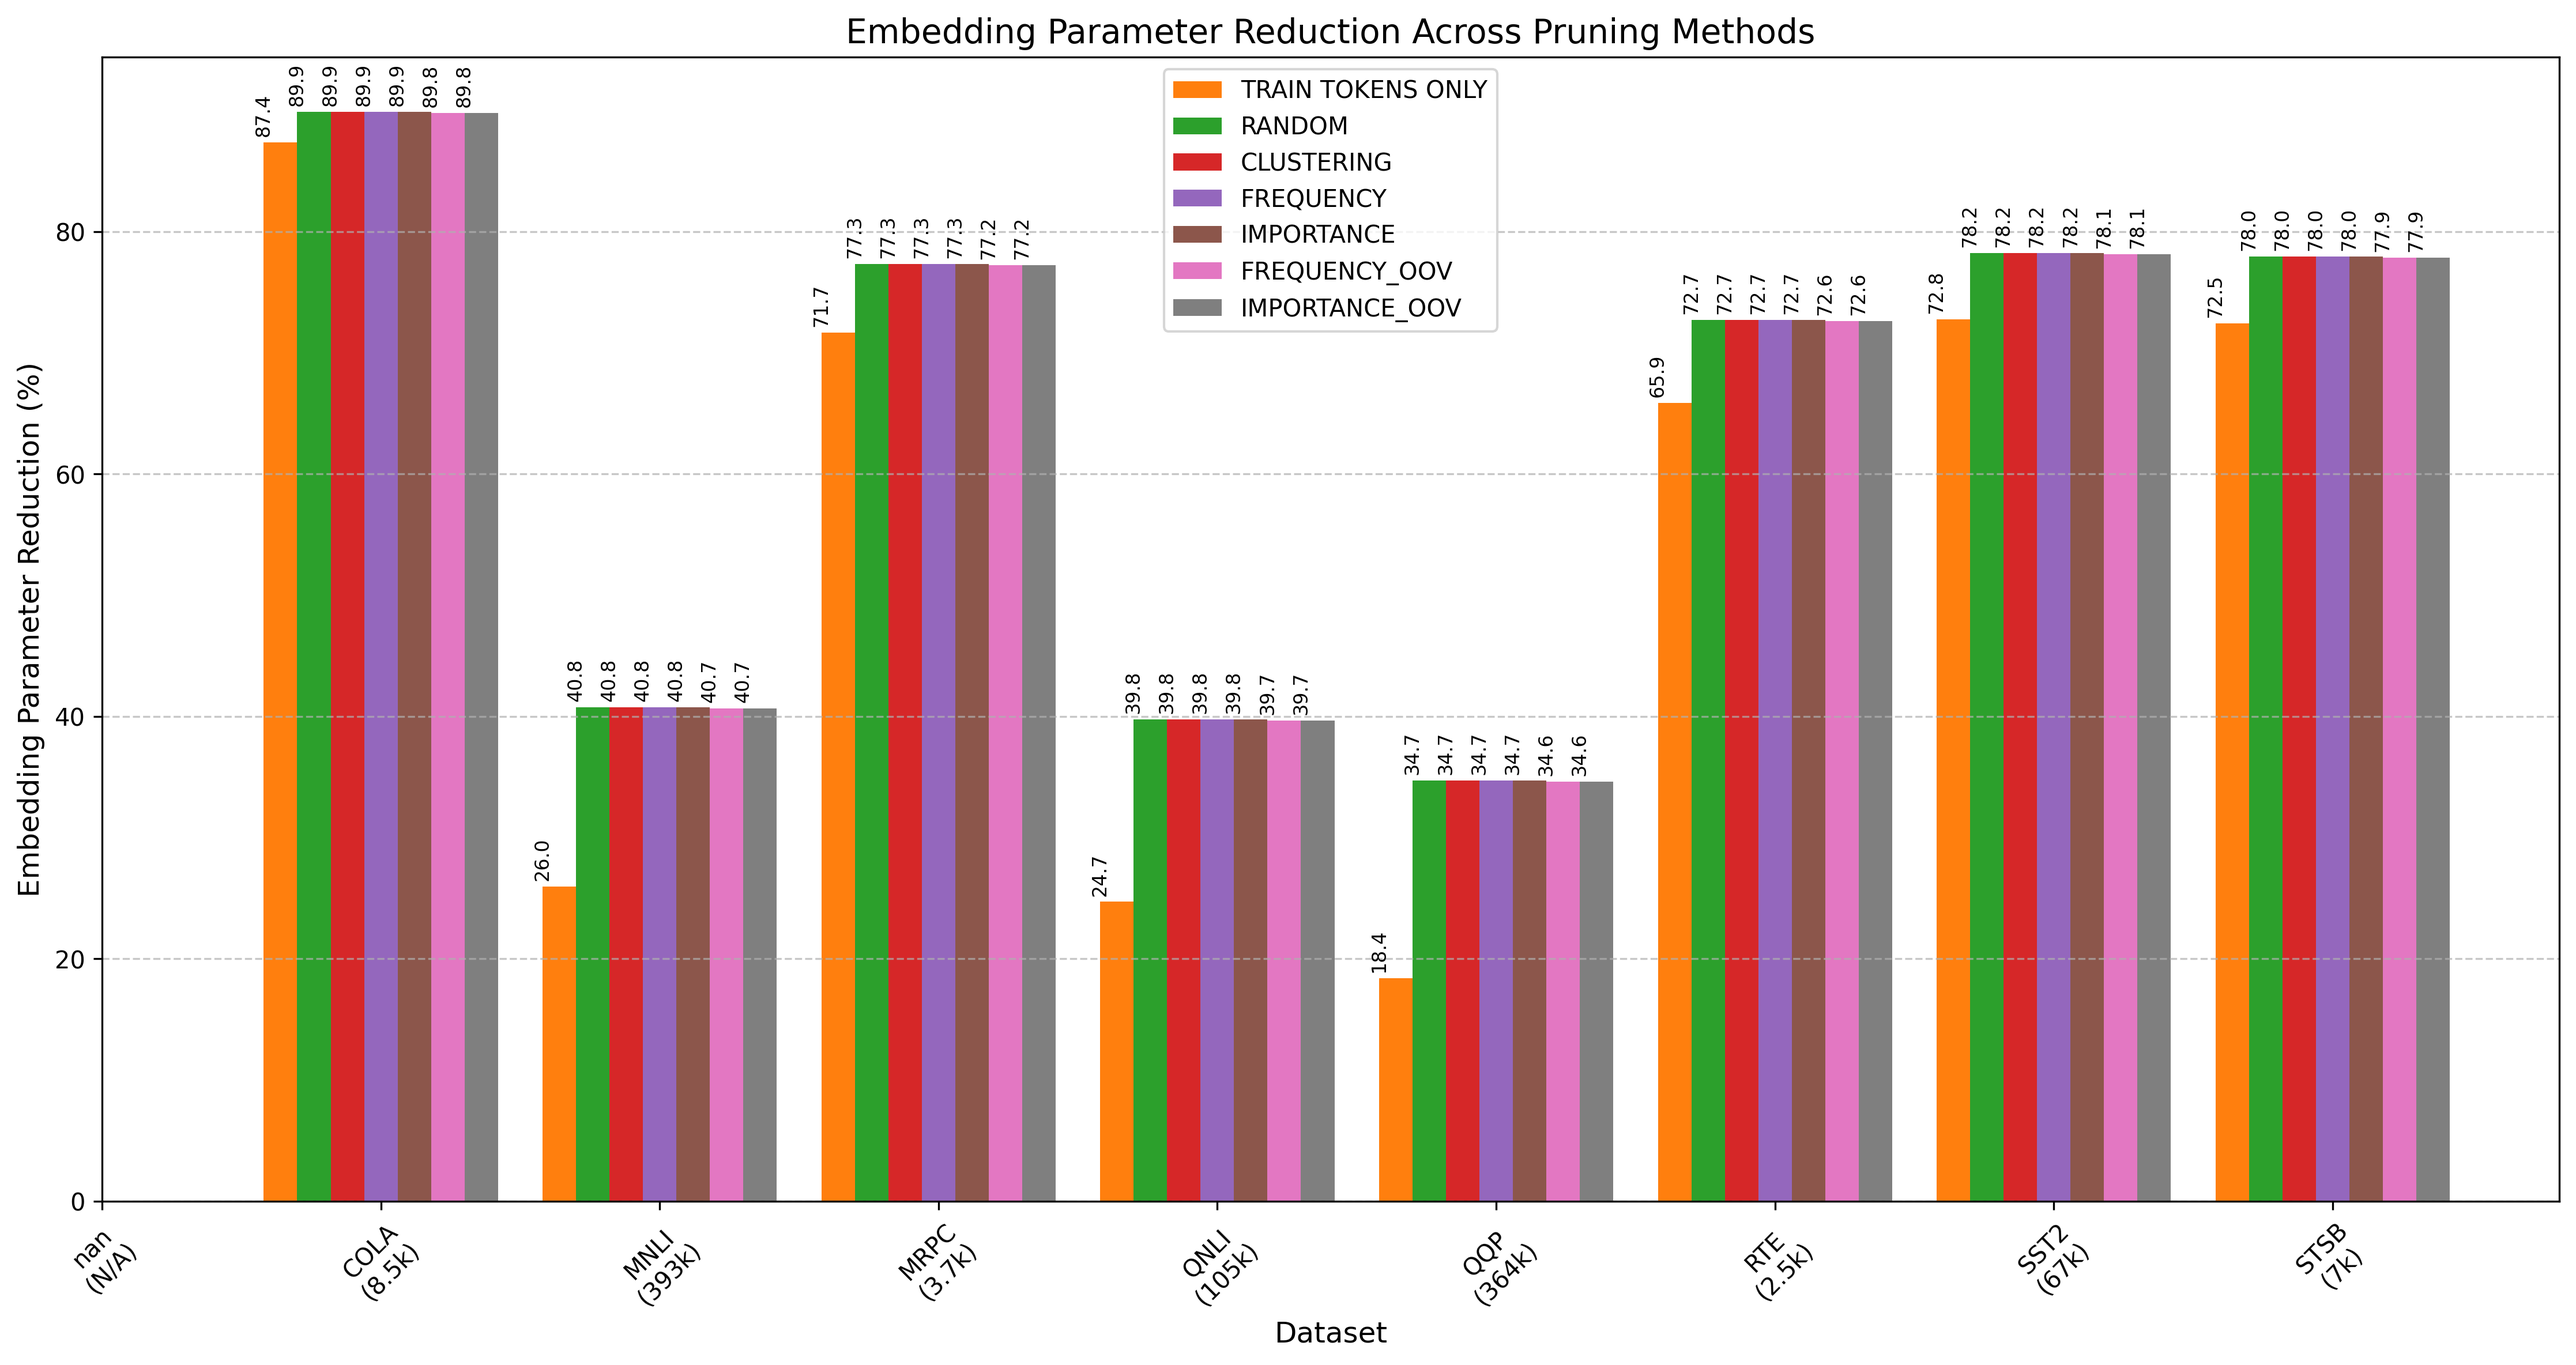
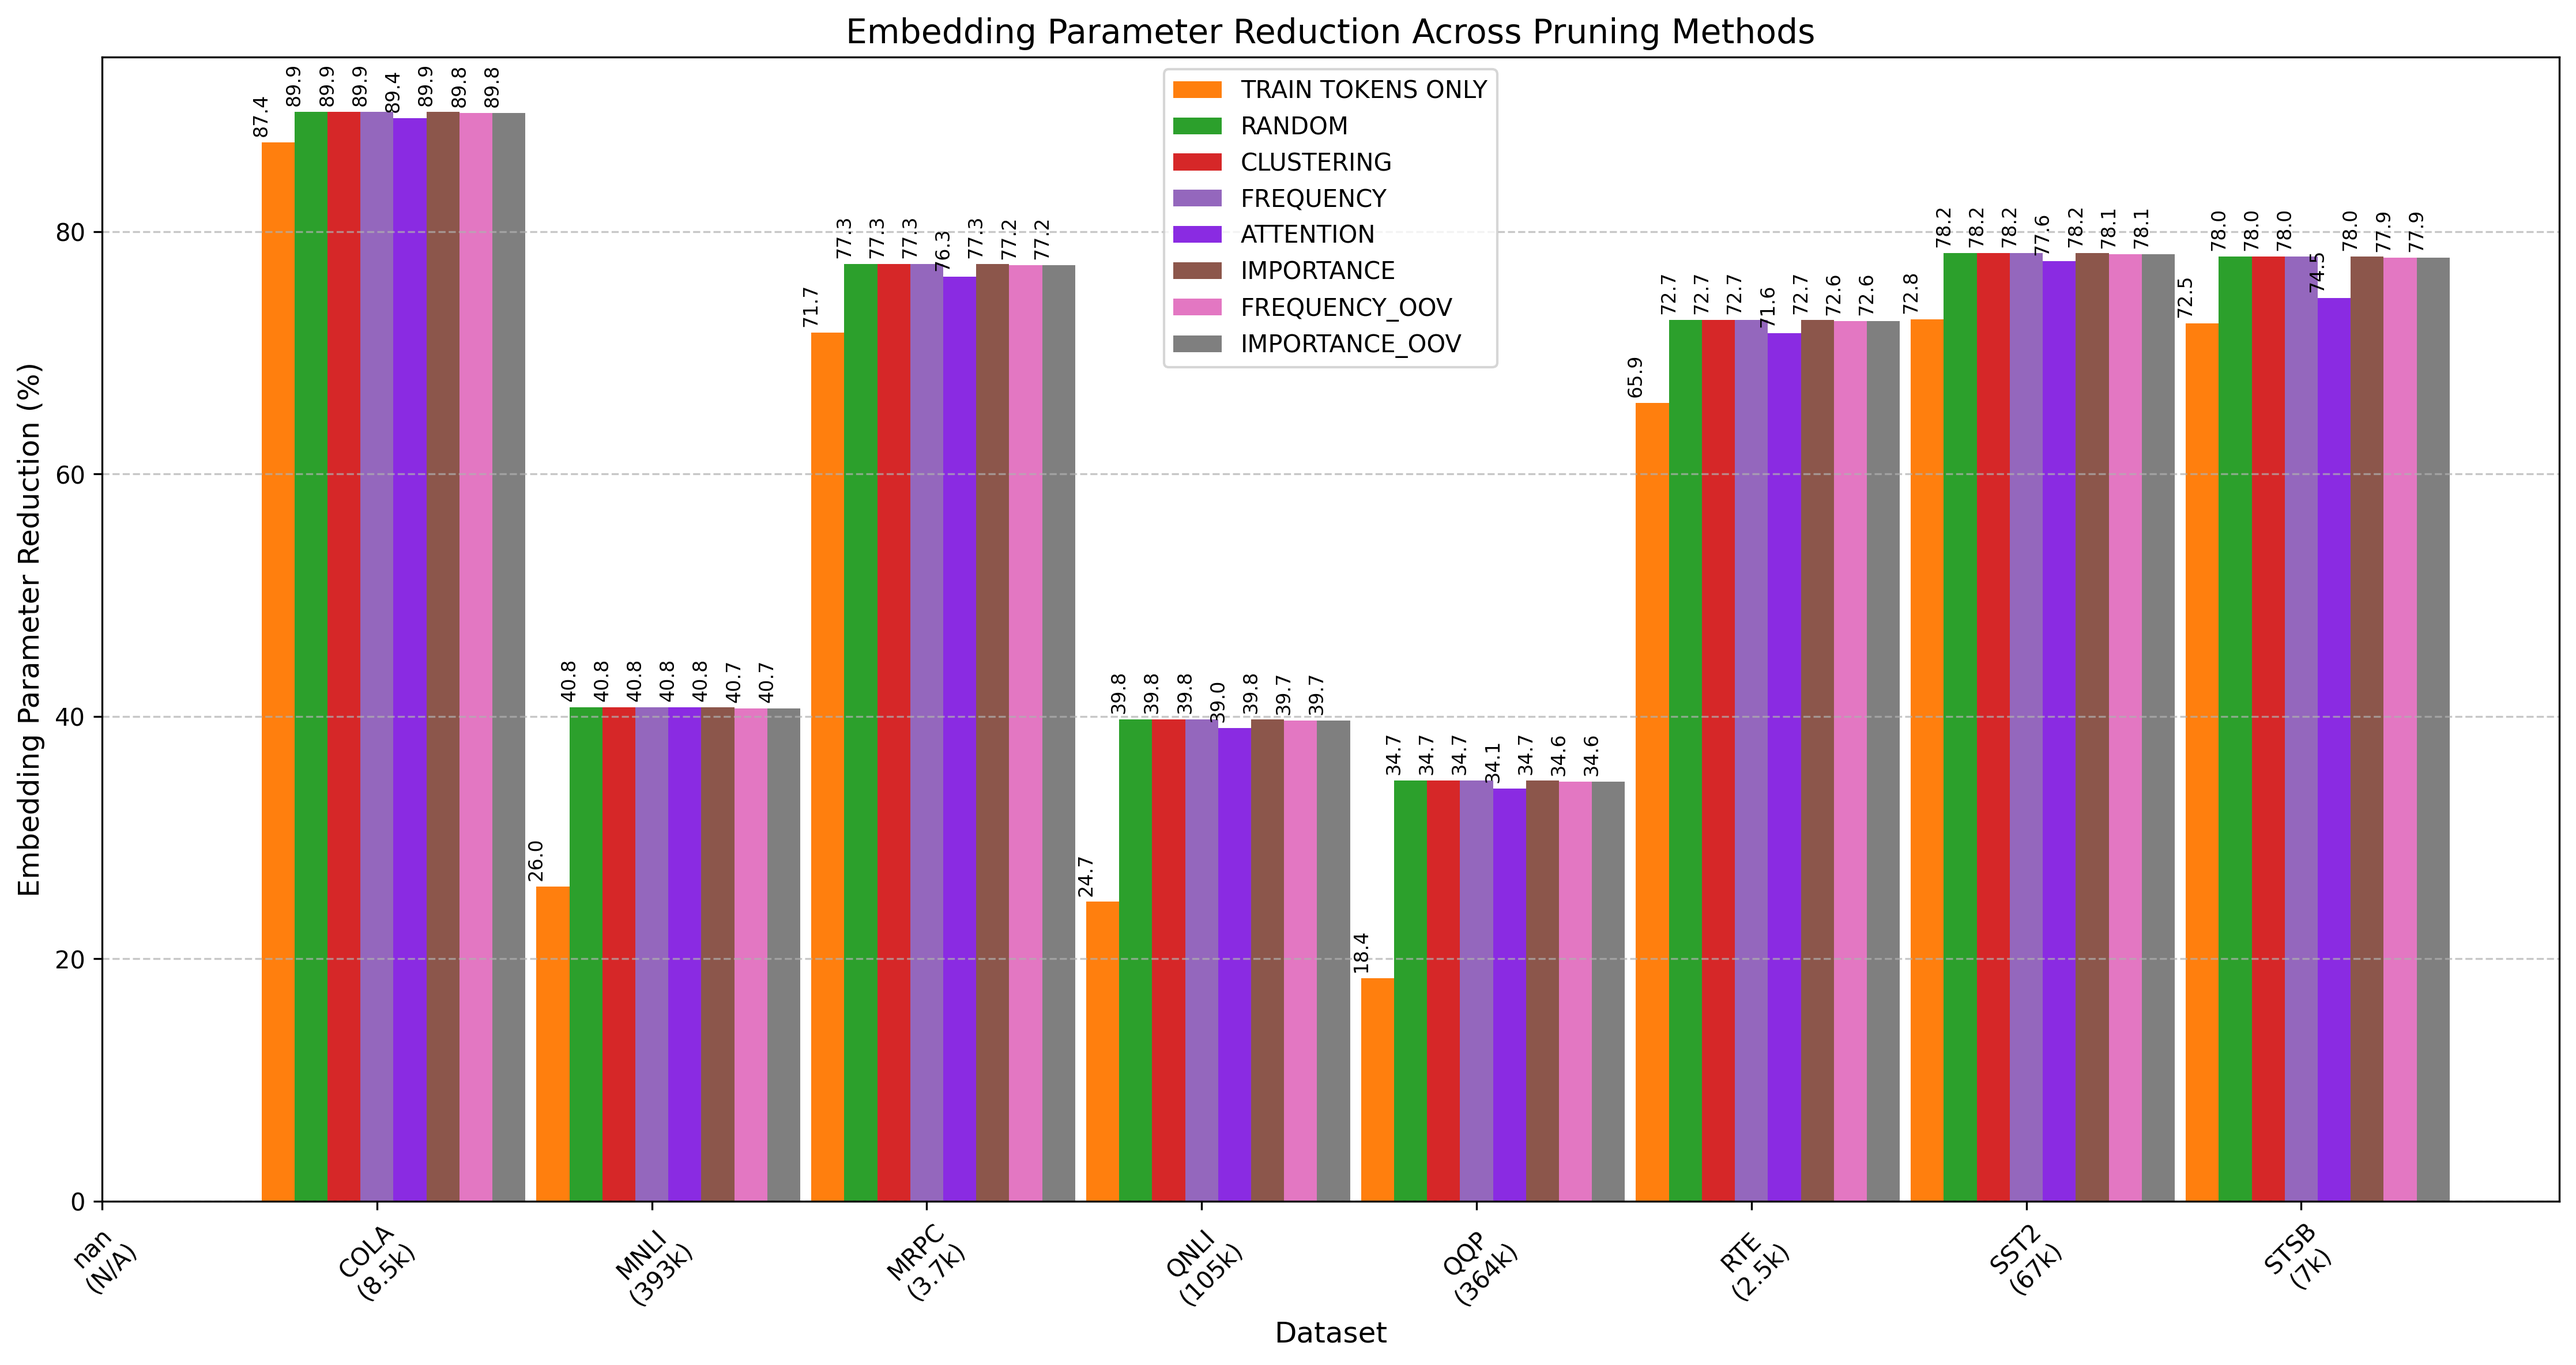
Add attention scores

Changed region(s): [[0.0933, 0.0312, 0.9333, 0.9688], [0.1244, 0.9062, 0.1556, 0.9375]]

diff --git a/visualize_results.py b/visualize_results.py
@@ -36,6 +36,7 @@ train_tokens_test = []
 random_test = []
 clustering_test = []
 frequency_test = []
+attention_test = []
 importance_test = []
 frequency_oov_test = []
 importance_oov_test = []
@@ -46,6 +47,7 @@ train_tokens_train = []
 random_train = []
 clustering_train = []
 frequency_train = []
+attention_train = []
 importance_train = []
 
 with open('results/SUMMARY.csv', 'r') as f:
@@ -73,7 +75,11 @@ with open('results/SUMMARY.csv', 'r') as f:
             else:
                 frequency_train.append(0.0)
             if len(row) > 12:
-                importance_train.append(parse_value(row[12]))
+                attention_train.append(parse_value(row[12]))
+            else:
+                attention_train.append(0.0)
+            if len(row) > 14:
+                importance_train.append(parse_value(row[14]))
             else:
                 importance_train.append(0.0)
             
@@ -90,15 +96,19 @@ with open('results/SUMMARY.csv', 'r') as f:
             else:
                 frequency_test.append(0.0)
             if len(row) > 13:
-                importance_test.append(parse_value(row[13]))
+                attention_test.append(parse_value(row[13]))
+            else:
+                attention_test.append(0.0)
+            if len(row) > 15:
+                importance_test.append(parse_value(row[15]))
             else:
                 importance_test.append(0.0)
-            if len(row) > 14:
-                frequency_oov_test.append(parse_value(row[14]))
+            if len(row) > 16:
+                frequency_oov_test.append(parse_value(row[16]))
             else:
                 frequency_oov_test.append(0.0)
-            if len(row) > 15:
-                importance_oov_test.append(parse_value(row[15]))
+            if len(row) > 17:
+                importance_oov_test.append(parse_value(row[17]))
             else:
                 importance_oov_test.append(0.0)
 
@@ -110,6 +120,7 @@ test_df = pd.DataFrame({
     'RANDOM': random_test,
     'CLUSTERING': clustering_test,
     'FREQUENCY': frequency_test,
+    'ATTENTION': attention_test,
     'IMPORTANCE': importance_test,
     'FREQUENCY_OOV': frequency_oov_test,
     'IMPORTANCE_OOV': importance_oov_test,
@@ -122,6 +133,7 @@ train_df = pd.DataFrame({
     'RANDOM': random_train,
     'CLUSTERING': clustering_train,
     'FREQUENCY': frequency_train,
+    'ATTENTION': attention_train,
     'IMPORTANCE': importance_train,
     'SIZE': [dataset_sizes.get(dataset, 'N/A') for dataset in datasets]  # Add dataset sizes
 }, index=datasets)
@@ -131,8 +143,8 @@ print("Test Results DataFrame with dataset sizes:")
 print(test_df)
 
 # Define the list of methods for consistent reference
-methods = ['NO PRUNING', 'TRAIN TOKENS ONLY', 'RANDOM', 'CLUSTERING', 'FREQUENCY', 'IMPORTANCE', 'FREQUENCY_OOV', 'IMPORTANCE_OOV']
-colors = ['#1f77b4', '#ff7f0e', '#2ca02c', '#d62728', '#9467bd', '#8c564b', '#e377c2', '#7f7f7f']
+methods = ['NO PRUNING', 'TRAIN TOKENS ONLY', 'RANDOM', 'CLUSTERING', 'FREQUENCY', 'ATTENTION', 'IMPORTANCE', 'FREQUENCY_OOV', 'IMPORTANCE_OOV']
+colors = ['#1f77b4', '#ff7f0e', '#2ca02c', '#d62728', '#9467bd', '#8a2be2', '#8c564b', '#e377c2', '#7f7f7f']
 method_colors = dict(zip(methods, colors))
 
 # Calculate and print performance drop from baseline
@@ -363,7 +375,7 @@ for col in param_reduction_df.columns:
     param_reduction_df[col] = pd.to_numeric(param_reduction_df[col], errors='coerce')
 
 # Convert column headers to MultiIndex
-method_groups = ['NO PRUNING', 'TRAIN TOKENS ONLY', 'RANDOM', 'CLUSTERING', 'FREQUENCY', 'IMPORTANCE', 'FREQUENCY_OOV', 'IMPORTANCE_OOV']
+method_groups = ['NO PRUNING', 'TRAIN TOKENS ONLY', 'RANDOM', 'CLUSTERING', 'FREQUENCY', 'ATTENTION', 'IMPORTANCE', 'FREQUENCY_OOV', 'IMPORTANCE_OOV']
 subtypes = ['Total', 'Embedding', 'Vocab']
 tuples = []
 

diff --git a/paper/main.tex b/paper/main.tex
@@ -111,7 +111,7 @@ Multiple approaches for token importance estimation were systematically evaluate
     
     \item \textbf{Clustering-Based}: This approach employs agglomerative or k-means clustering on the embedding space to group tokens with similar semantic properties. For each cluster, the token closest to the centroid is retained as a representative, while others are pruned. This preserves semantic diversity across the vocabulary while reducing redundancy.
     
-    \item \textbf{Attention-Based}: A more sophisticated approach using a finetuned model to extract attention scores across the dataset. For each token, attention patterns across all layers are aggregated to determine its contextual importance.
+    \item \textbf{Attention-Based}: This method uses attention patterns from fine-tuning to determine token importance. For each token, attention scores across all layers and heads are aggregated to capture its contextual relevance within the specific task. Tokens receiving consistently higher attention are considered more important for model decisions, providing a more nuanced importance measure that captures both frequency and semantic significance.
     
     \item \textbf{TF-IDF Based}: Tokens are ranked using Term Frequency-Inverse Document Frequency scores, which balance token occurrence frequency with discriminative power across documents.
 \end{enumerate}
@@ -218,16 +218,17 @@ Experimental results indicate that TF-IDF variants generally outperform pure fre
 ModernBERT (Full) & 0.03\% & 0.951 & 0.856 & 0.881 & 0.586 & 0.917 & 0.917 & 0.916 & 0.598 & 0.828 \\
 \midrule
 \multicolumn{11}{l}{\textit{Vocabulary Pruning}} \\
-Train Tokens Only & 6.7-22.6\% & 0.950 & 0.831 & \textbf{0.883} & 0.509 & \textbf{0.917} & \textbf{0.917} & 0.915 & 0.598 & 0.815 \\
+Train Tokens Only & 6.7-22.6\% & 0.950 & 0.831 & 0.883 & 0.509 & 0.917 & 0.917 & 0.915 & 0.598 & 0.815 \\
 \midrule
 Random Selection & 9.0-23.3\% & 0.911 & 0.798 & 0.832 & 0.470 & 0.845 & 0.902 & 0.895 & 0.522 & 0.772 \\
 Clustering-Based & 9.0-23.3\% & 0.899 & 0.714 & 0.712 & 0.000 & 0.786 & 0.875 & 0.836 & 0.510 & 0.667 \\
-Frequency-Based & 9.0-23.3\% & 0.943 & 0.812 & 0.880 & 0.467 & 0.905 & 0.916 & \textbf{0.920} & 0.542 & 0.798 \\
-TF-IDF Based & 9.0-23.3\% & 0.933 & 0.807 & 0.875 & 0.520 & 0.901 & 0.900 & 0.917 & \textbf{0.606} & \textbf{0.807} \\
+Frequency-Based & 9.0-23.3\% & 0.943 & 0.812 & 0.880 & 0.467 & \textbf{0.905} & \textbf{0.916} & \textbf{0.920} & 0.542 & 0.798 \\
+Attention-Based & 8.8-23.1\% & \textbf{0.947} & \textbf{0.864} & 0.864 & \textbf{0.589} & 0.885 & 0.912 & 0.912 & 0.550 & 0.803 \\
+TF-IDF Based & 9.0-23.3\% & 0.933 & 0.807 & \textbf{0.875} & 0.520 & 0.901 & 0.900 & 0.917 & \textbf{0.606} & \textbf{0.807} \\
 \midrule
 \multicolumn{11}{l}{\textit{Vocabulary Pruning with OOV Handling}} \\
 Freq + OOV & 9.0-23.2\% & \textbf{0.938} & 0.828 & \textbf{0.881} & 0.540 & 0.906 & 0.916 & 0.918 & 0.538 & 0.808 \\
-TF-IDF + OOV & 9.0-23.2\% & 0.923 & \textbf{0.834} & 0.878 & \textbf{0.615} & 0.903 & 0.906 & 0.919 & 0.554 & \textbf{0.817} \\
+TF-IDF + OOV & 9.0-23.2\% & 0.923 & 0.834 & 0.878 & 0.615 & 0.903 & 0.906 & 0.919 & 0.554 & \textbf{0.817} \\
 \bottomrule
 \end{tabular}
 \end{table*}
@@ -244,6 +245,7 @@ Train Tokens Only & 14.22\% & 1.25\% \\
 Random Selection & 16.44\% & 5.58\% \\
 Clustering-Based & 16.44\% & 16.24\% \\
 Frequency-Based & 16.44\% & 2.32\% \\
+Attention-Based & 15.92\% & 1.99\% \\
 TF-IDF Based & 16.44\% & 2.04\% \\
 Frequency + OOV & 16.40\% & 1.82\% \\
 TF-IDF + OOV & 16.40\% & 0.96\% \\

diff --git a/README.md b/README.md
@@ -247,3 +247,42 @@ For issues with word importance methods, ensure nltk is installed:
 pip install nltk
 python -c "import nltk; nltk.download('stopwords')"
 ```
+
+## Visualization and Results
+
+The repository includes a visualization script that generates plots comparing all pruning methods:
+
+```bash
+python visualize_results.py
+```
+
+This script produces several visualizations:
+
+1. **Performance Comparison**: Bar charts comparing test performance across all methods
+2. **Performance Drop**: Charts showing the performance drop from the baseline for each method
+3. **Parameter Reduction**: Bar charts showing total, embedding, and vocabulary parameter reduction
+4. **Dataset Size Impact**: Scatter plots showing the relationship between dataset size and performance
+5. **Method-specific Comparisons**: Direct comparisons between regular and OOV variants of methods
+6. **Performance vs. Parameter Reduction**: Scatter plots showing the tradeoff between performance and model size
+
+Results are summarized in three CSV files:
+
+1. **SUMMARY.csv**: Raw performance metrics for all methods (train and test)
+2. **SUMMARY_WITH_SIZES.csv**: Performance metrics and relative drop for each method, organized by dataset size
+3. **PARAM_REDUCTION_SUMMARY.csv**: Parameter reduction percentages (total, embedding, vocabulary) across methods
+
+These files and visualizations make it easy to compare:
+- Performance across different pruning techniques
+- Tradeoffs between model size and accuracy
+- Method effectiveness based on dataset properties
+
+Each visualization includes all implemented pruning methods:
+- NO PRUNING (baseline)
+- TRAIN TOKENS ONLY
+- RANDOM
+- CLUSTERING
+- FREQUENCY
+- ATTENTION
+- IMPORTANCE
+- FREQUENCY_OOV
+- IMPORTANCE_OOV

diff --git a/plots/README.md b/plots/README.md
@@ -17,6 +17,7 @@ Compares the test performance of different pruning methods across all GLUE datas
 - RANDOM
 - CLUSTERING
 - FREQUENCY
+- ATTENTION
 - IMPORTANCE
 - FREQUENCY_OOV
 - IMPORTANCE_OOV
@@ -65,7 +66,7 @@ Compares the performance of regular IMPORTANCE pruning against IMPORTANCE_OOV pr
 ### `dataset_size_vs_performance_enhanced.png`
 Shows the relationship between dataset size and model performance for different pruning methods, including trend lines and correlation coefficients.
 
-**Note**: This plot should include all pruning techniques (NO PRUNING, TRAIN TOKENS ONLY, RANDOM, CLUSTERING, FREQUENCY, IMPORTANCE, FREQUENCY_OOV, IMPORTANCE_OOV).
+**Note**: This plot includes all pruning techniques (NO PRUNING, TRAIN TOKENS ONLY, RANDOM, CLUSTERING, FREQUENCY, ATTENTION, IMPORTANCE, FREQUENCY_OOV, IMPORTANCE_OOV).
 
 ![Dataset size vs performance](dataset_size_vs_performance_enhanced.png)
 
@@ -92,6 +93,11 @@ Performance drop vs. parameter reduction for CLUSTERING pruning.
 Performance drop vs. parameter reduction for FREQUENCY pruning.
 
 ![Performance vs parameter reduction for frequency](perf_vs_param_frequency.png)
+
+### `perf_vs_param_attention.png`
+Performance drop vs. parameter reduction for ATTENTION pruning.
+
+![Performance vs parameter reduction for attention](perf_vs_param_attention.png)
 
 ### `perf_vs_param_frequency_oov.png`
 Performance drop vs. parameter reduction for FREQUENCY_OOV pruning.
